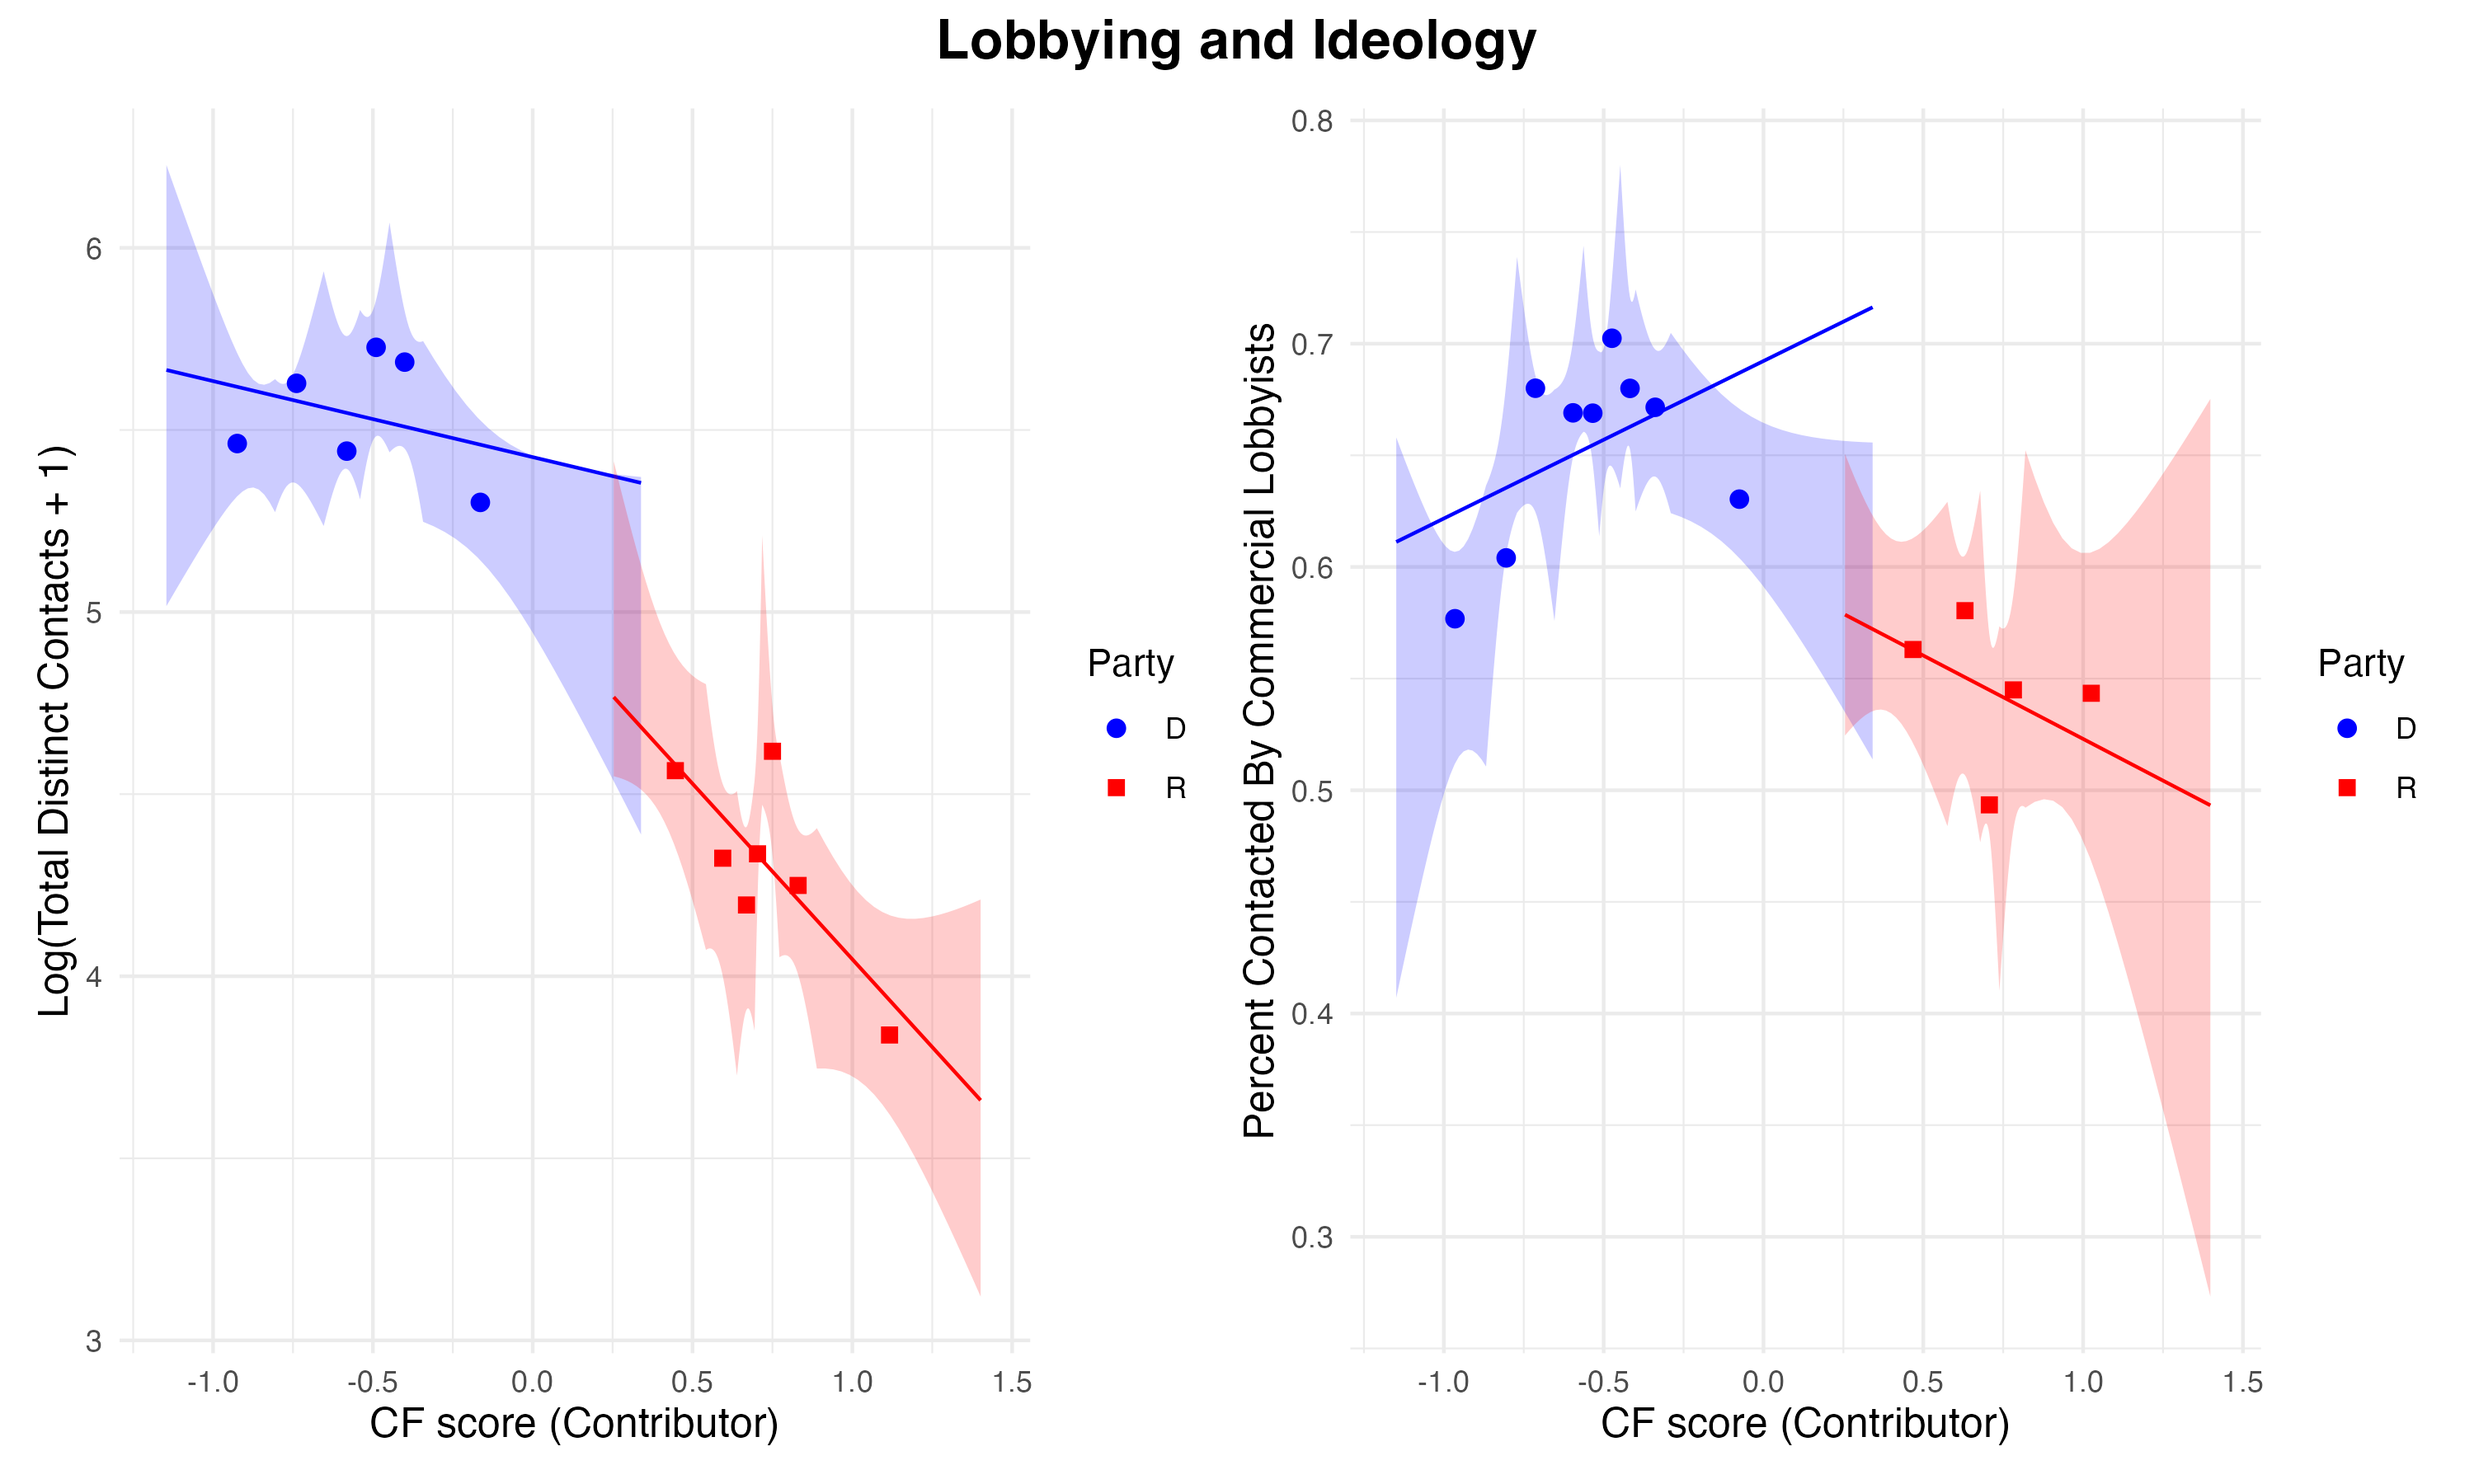
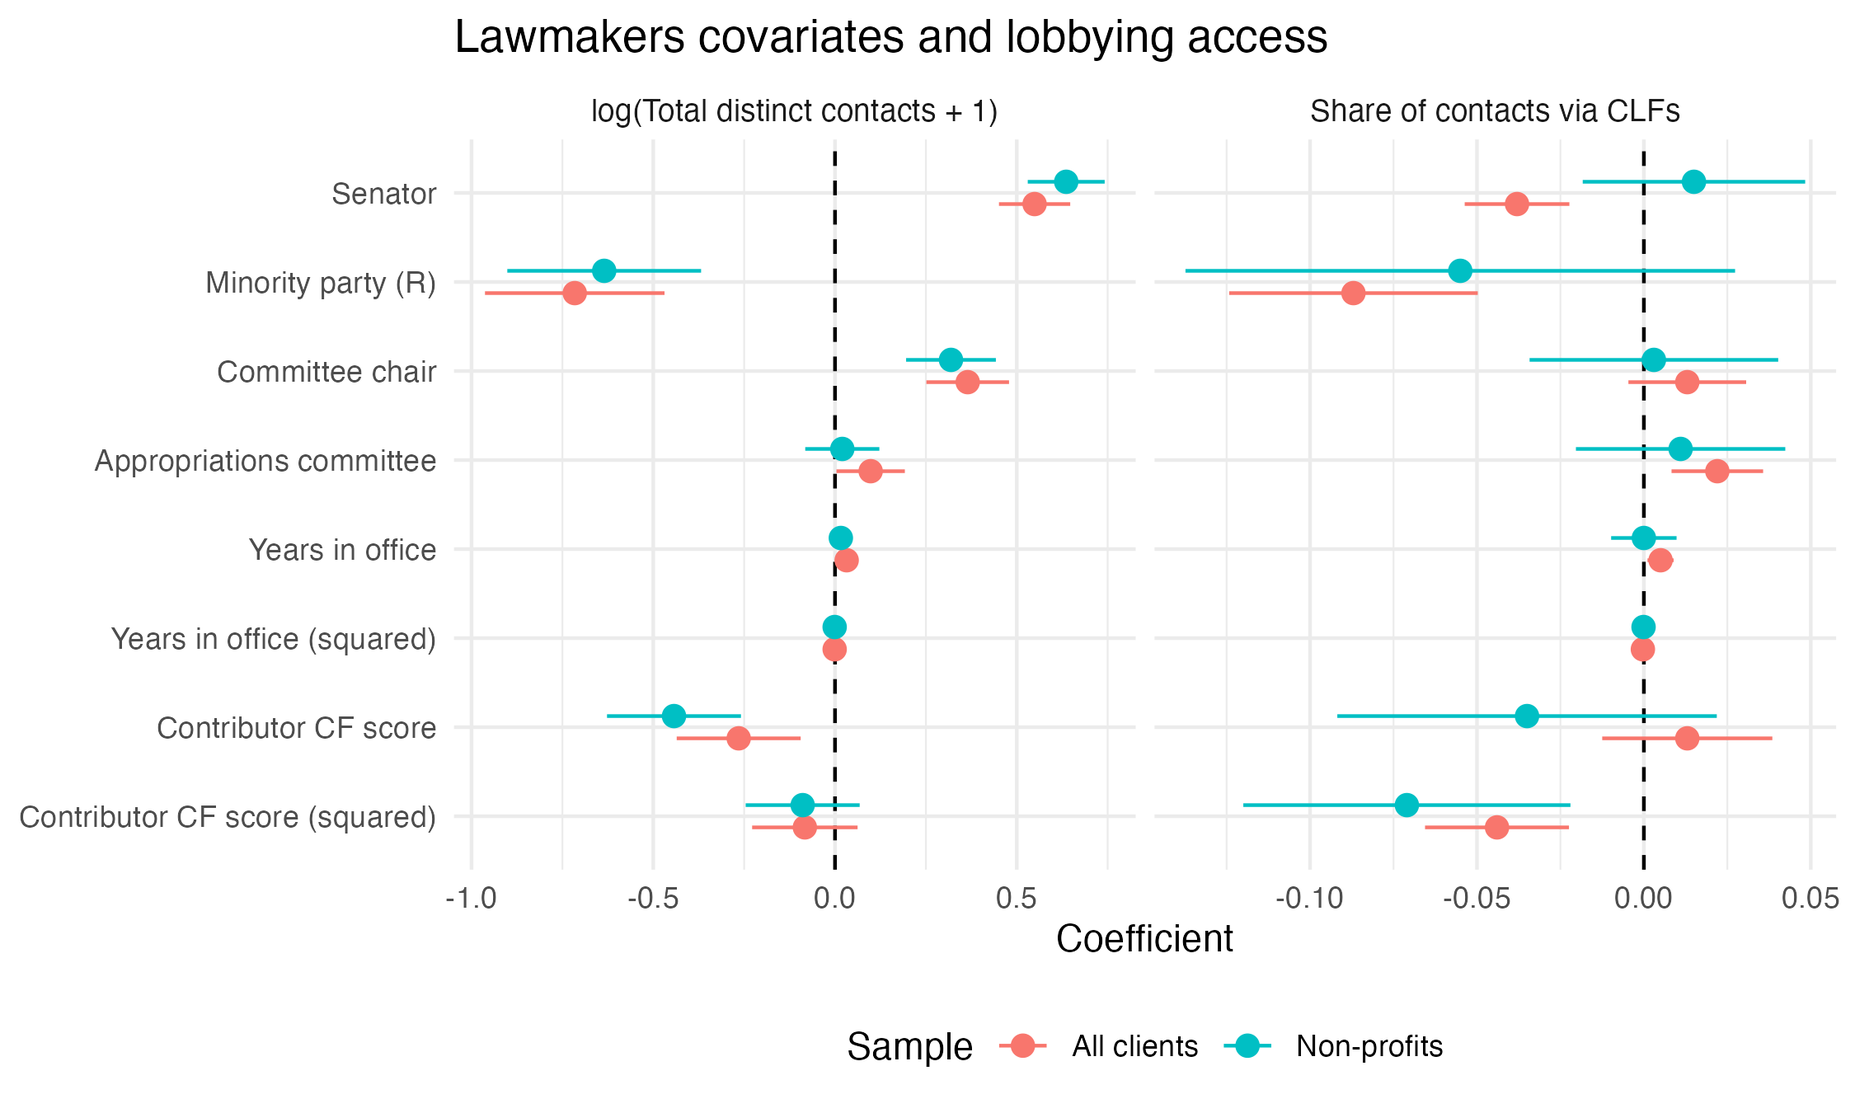
updated lobbying

diff --git a/content/publication/lobbying-paper/index.md b/content/publication/lobbying-paper/index.md
@@ -1,5 +1,5 @@
 ---
-title: "Intermediation in Matching Markets. Evidence from commercial lobbying."
+title: "The Market for Political Access. Evidence from New York State Lobbying"
 authors:
 - admin
 author_notes: ""
@@ -15,9 +15,9 @@ publishDate: 2025-05-31
 publication_types: ["manuscript"]
 
 # Publication name and optional abbreviated publication name.
-publication_short: "Draft coming soon"
+publication_short: ""
 
-abstract: "This paper studies the role of intermediaries in the allocation of political access. Using novel data on lobbying contacts between clients, lobbying firms, and lawmakers in New York State, I document three key empirical facts: (i) legislative influence, committee assignment, and seniority are strong predictors of contact volume; (ii) commercial lobbyists are significantly more active than in-house lobbyists, particularly when connected to lawmakers via campaign contributions or prior employment; and (iii) connections are used selectively, even after conditioning on issue-area alignment and agent identities. Building on these facts, I propose a model in which lobbying firms and clients negotiate fees as a function of firm-specific characteristics and expected returns. The model embeds a matching mechanism that allocates contacts to lawmakers in a manner that maximizes client welfare subject to two equilibrium constraints: a market-clearing condition equating supply and demand for contacts, and a participation condition linking lobbying effort to negotiated fees. The framework rationalizes observed contact patterns and provides a foundation for estimating counterfactual allocations under alternative intermediation structures."
+abstract: "We study how commercial lobbying firms intermediate access to lawmakers when political attention is scarce. We use a novel dataset of New York State lobbying that links who contacted whom, through which intermediary, and on behalf of which client, to administrative records on grants and contracts received by tax-exempt organizations. We document that meetings are highly concentrated on a small set of powerful legislators and that commercial lobbying firms mediate a disproportionate share of contacts to these lawmakers, leveraging often revolving-door ties and connections proxied by campaign contributions. Guided by these facts, we develop and estimate a two-stage model of access allocation. In the first stage, clients choose whether to lobby and whether to do so in-house, through a commercial lobbying firm, or jointly. In the second stage, politicians allocate meetings across client--lobbyist pairs subject to legislator-specific capacity. The estimates imply strongly diminishing returns to additional access and sizable entry costs, and model-based counterfactual simulations suggest that eliminating commercial lobbying firms, or reallocating their relationship capital, would modestly reduce aggregate nonprofit grants while meaningfully changing their distribution, especially for large organizations."
 
 # Summary. An optional shortened abstract.
 summary:
